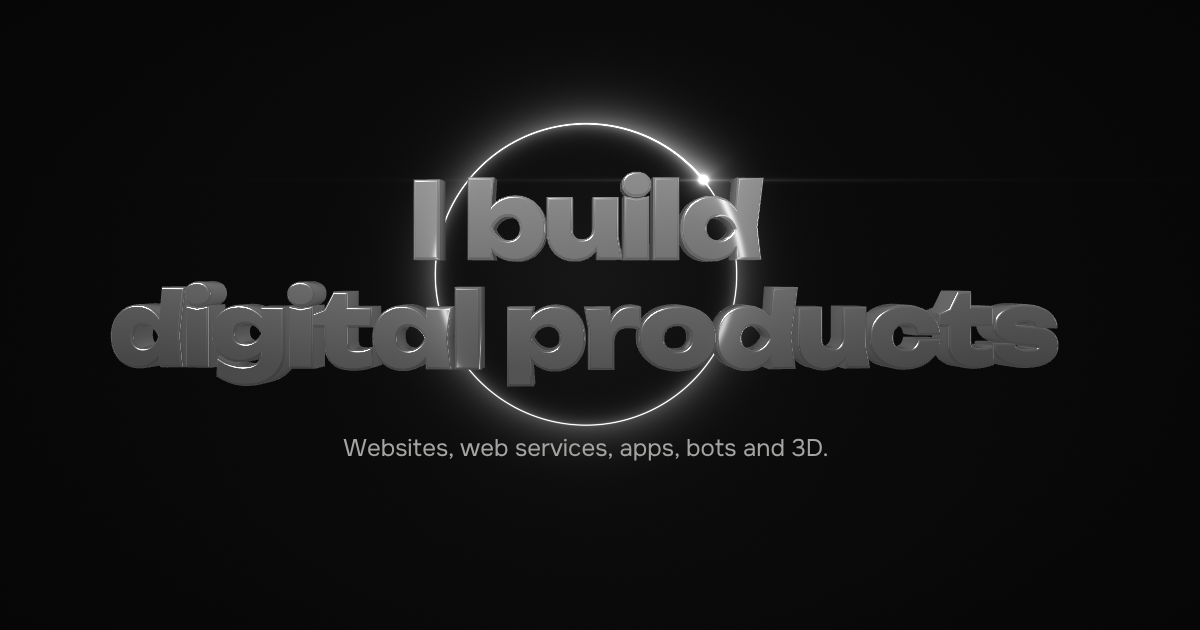
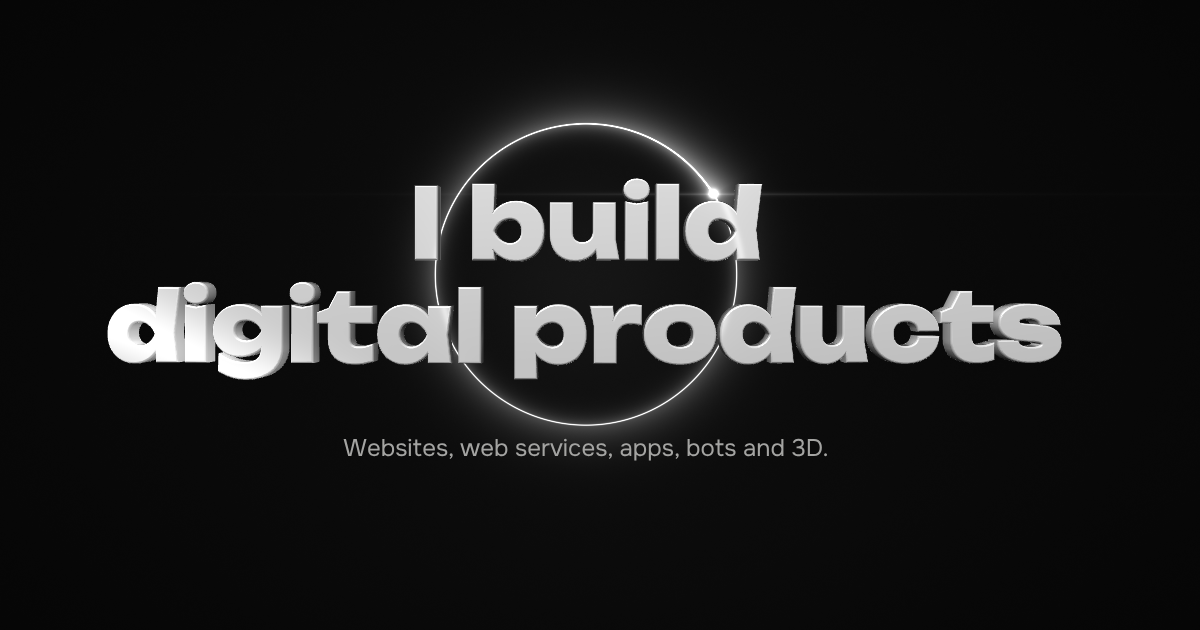
Первый экран: заголовок читается. Буквы из белого матового стекла: лицо почти белое, боковины и фаски затенены по свету студии, кольцо за буквой лишь слегка проступает. Объём тоньше, межбуквенный интервал свободнее, в покое фраза почти ровная. Исправлены буквы «в» и «B»: дыра в шрифте нарисована одн
Claude-Session: https://claude.ai/code/session_015Uxy1B2AXMPNGW3xtfpZG2

Changed region(s): [[0.0925, 0.4222, 0.8942, 0.6333], [0.3392, 0.2714, 0.6475, 0.4222]]

diff --git a/src/scripts/hero/glass.ts b/src/scripts/hero/glass.ts
@@ -15,8 +15,9 @@ import typeface from './unbounded.json';
  * Форма фразы считается в вершинном шейдере, геометрия строится один раз: фраза тянется вслед за движением
  * (буквы позади ведущего края отстают, сами буквы вытягиваются, хвост чуть провисает) и выгибается
  * тем сильнее, чем быстрее летит; на месте она почти ровная и только слегка выпуклая.
- * Стекло своё, без отдельного прохода преломления: фон (графит, кольцо, искра) задан формулой, и буква
- * берёт его в точке, куда её грань отклоняет луч. Отражения из той же формулы студии. Поэтому стекло не рябит:
+ * Стекло своё, белое и матовое: лицо буквы почти белое, боковины и фаски затенены по свету студии, поэтому
+ * текст читается и на чёрном, и на кольце. Отдельного прохода преломления нет: фон (графит, кольцо, искра)
+ * задан формулой, и буква слегка пропускает его в точке, куда её грань отклоняет луч. Поэтому стекло не рябит:
  * нет картинки в половинном размере, нет зерна, которое меняется каждый кадр, блики мягкие.
  * Координаты: 1 единица = 1 css-пиксель на плоскости z = 0, начало в центре кольца, y вверх, z к зрителю.
  */
@@ -79,8 +80,8 @@ const GLYPHS = typeface.glyphs as unknown as Record<string, Glyph>;
 const EM = typeface.resolution;
 const CAP = typeface.capHeight / EM;
 const LH = 1.1; // межстрочный интервал в кеглях
-const DEPTH = 0.3; // толщина букв в кеглях
-const TRACK = -0.02; // трекинг, кегли: Unbounded широкий, чуть плотнее читается крупнее
+const DEPTH = 0.18; // толщина букв в кеглях: боковины видны, но не забивают форму буквы
+const TRACK = 0.015; // трекинг, кегли: объёмные буквы с небольшим зазором не слипаются в слове
 const FILL = 1.4; // на узком экране строки фразы выравниваются по ширине самой длинной, но не крупнее в 1,4 раза
 const adv = (ch: string) => (GLYPHS[ch]?.ha ?? 0) / EM + TRACK;
 const widthEm = (s: string) => [...s].reduce((w, ch) => w + adv(ch), 0) - TRACK;
@@ -93,7 +94,7 @@ function glyph(ch: string, q: { curve: number; bevel: number }): BufferGeometry 
   if (ch.trim()) {
     const t = new TextGeometry(ch, {
       font, size: 1, depth: DEPTH, curveSegments: q.curve,
-      bevelEnabled: true, bevelThickness: 0.05, bevelSize: 0.03, bevelOffset: 0, bevelSegments: q.bevel,
+      bevelEnabled: true, bevelThickness: 0.035, bevelSize: 0.022, bevelOffset: 0, bevelSegments: q.bevel,
     });
     t.deleteAttribute('uv');
     // гладкие фаски, острые рёбра между лицом буквы и боковиной без фаски не размываются
@@ -283,14 +284,15 @@ void main() {
   vec2 off = (T.xy + V.xy) * uRefr - vL * 0.22;
   vec3 behind = scene(px + vec2(off.x, -off.y), 1.0);
   float F = 0.04 + 0.96 * pow(1.0 - NdV, 5.0);
-  // тело стекла молочное: фон сквозь него виден приглушённым, само стекло светлое, буквы читаются и на чёрном;
-  // сверху вниз мягкий перелив, как у стекла под софтбоксом
+  // белое матовое стекло: лицо буквы почти белое, сверху чуть светлее; боковины и фаски темнее по свету студии,
+  // поэтому форма буквы чёткая и на чёрном, и на кольце. Сквозь стекло слегка проступает то, что за ним
   float gy = clamp(vB.y, -1.0, 1.0) * 0.5 + 0.5;
-  vec3 body = behind * 0.55 + vec3(0.3 + 0.26 * gy + 0.05 * N.y);
-  vec3 col = mix(body, studio(reflect(-V, N)), clamp(0.12 + F * 1.6, 0.0, 1.0));
-  vec3 Hh = normalize(normalize(vec3(-0.45, 0.75, 0.6)) + V);
-  col += 0.65 * pow(max(dot(N, Hh), 0.0), 36.0);
-  col += 0.32 * pow(1.0 - NdV, 3.0);
+  vec3 L = normalize(vec3(-0.4, 0.75, 0.55));
+  float light = 0.56 + 0.26 * N.y + 0.26 * N.z + 0.3 * max(dot(N, L), 0.0);
+  vec3 col = vec3(0.93) * light * (0.9 + 0.1 * gy);
+  col = mix(col, behind + 0.6 * col, 0.12);
+  col = mix(col, studio(reflect(-V, N)), clamp(F * 1.2, 0.0, 0.6));
+  col += 0.35 * pow(max(dot(N, normalize(L + V)), 0.0), 50.0);
   // блик проходит по фразе наискось
   float sh = vB.x * 0.8 + vB.y * 0.35 - uSheen;
   col += vec3(0.42) * exp(-sh * sh * 28.0) * (0.55 + 0.45 * (1.0 - NdV));
@@ -442,7 +444,7 @@ export async function createGlass(o: Opts): Promise<Glass> {
       // вертикальный полёт ещё и выгибает строки дугой: концы отстают
       const ext = u.uExt.value * kk;
       u.uBC.value.set(-m.dx * ext, -m.dy * ext);
-      u.uBend.value.set((0.18 + 0.5 * pos * hx) / (it.hw + ext * hx), (0.45 * pos * vy) / (it.hh + ext * vy));
+      u.uBend.value.set((0.1 + 0.55 * pos * hx) / (it.hw + ext * hx), (0.45 * pos * vy) / (it.hh + ext * vy));
       u.uArch.value = (0.3 * pos * vy * Math.sign(m.dy || 1)) / it.hw;
       u.uPos.value.set(b.x, b.y, b.z);
       u.uDeep.value = b.deep;

diff --git a/CLAUDE.md b/CLAUDE.md
@@ -1,0 +1,6 @@
+# Заметки для Claude
+
+- Владелец хочет видеть правки сразу на d1fast.github.io: каждую готовую правку коммить и пушь в `main`,
+  из него GitHub Actions собирает и выкладывает сайт. Рабочую ветку сессии можно пушить тоже, но `main` обязательно.
+- Как устроен сайт и как его запустить: docs/DEV.md. Тексты в src/i18n/ru.ts и en.ts.
+- Буквы стеклянных фраз первого экрана собирает `node scripts/hero-type.mjs` (после правки hero.beats).
